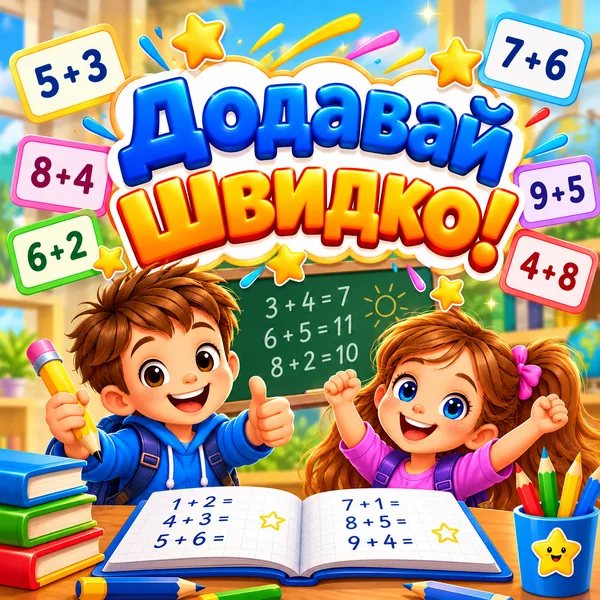
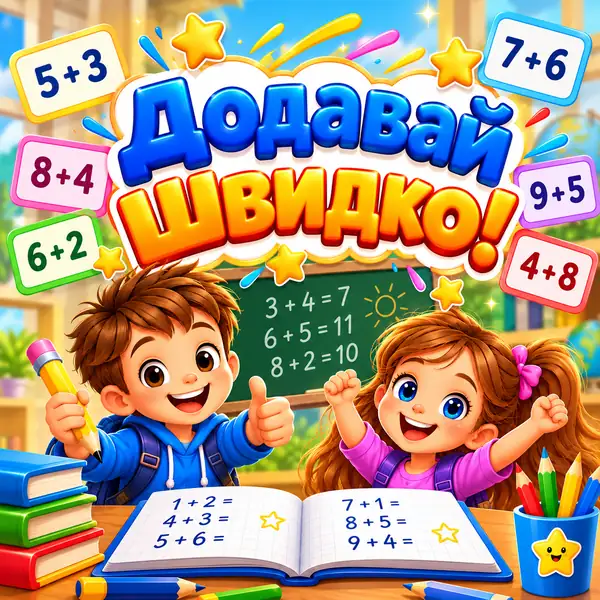
Обкладинки легші на ~28%; додавання й множення показують прогрес на картці
- Три обкладинки перезібрано у webp q62 (600×600): 67–75 КБ замість 93–103 КБ,
  кеш підвищено (v=4 / v=2).
- dodavannya.html, mnozhennya.html пишуть sk_testprog_<id> = [пройдено рівнів, 10]
  (id з ?skdone=t:<id>) — картка в «Навчанні» показує «▶ 3 / 10» і смужку.
  Прогрес, набраний раніше без картки, підхоплюється при відкритті з картки.
  Усі 10 рівнів — skFinishRecord(): запис зараховано, «✅ пройдено».
- dodavannya.html: «чемпіон таблиці множення» → «чемпіон додавання»,
  підпис супер-результату 45 → 30 (як у SUPER).

Claude-Session: https://claude.ai/code/session_015t33xdTwdyarF5UjVJRUZF

diff --git a/klas-1/dodavannya.html b/klas-1/dodavannya.html
@@ -170,7 +170,7 @@ h1{font-family:"Caveat",cursive;font-weight:700;font-size:34px;line-height:1.05;
   <div id="screen-map">
     <div class="eyebrow">Математика · 10 рівнів · <span id="sync" class="sync">…</span></div>
     <h1>Швидке додавання</h1>
-    <img class="cover" src="../img/tr/dodavannya.webp?v=1" alt="" onerror="this.remove()">
+    <img class="cover" src="../img/tr/dodavannya.webp?v=2" alt="" onerror="this.remove()">
     <div class="hud">
       <div class="stat"><span class="k">XP</span><b id="hud-xp">0</b></div>
       <div class="stat"><span class="k">Рекорд/хв</span><b id="hud-rec">—</b></div>
@@ -178,7 +178,7 @@ h1{font-family:"Caveat",cursive;font-weight:700;font-size:34px;line-height:1.05;
     </div>
     <div class="map" id="map"></div>
     <div class="rule"></div>
-    <div class="eyebrow">Супер-результат — 45 правильних за хвилину</div>
+    <div class="eyebrow">Супер-результат — 30 правильних за хвилину</div>
     <a class="backlink" href="../igry.html">← До ігор</a>
   </div>
 
@@ -476,7 +476,7 @@ function endRound(){
   $("d-super").innerHTML   = correct >= SUPER ? `<span class="super">🏆 СУПЕР · 30+ за хвилину</span>` : "";
 
   let line;
-  if(correct >= SUPER)      line = "Неймовірно! Ти справжній чемпіон таблиці множення.";
+  if(correct >= SUPER)      line = "Неймовірно! Ти справжній чемпіон додавання.";
   else if(correct >= 20)    line = "Чудово! До супер-результату лишилось зовсім трохи.";
   else if(correct >= PASS)  line = "Рівень пройдено! Спробуй побити свій рекорд.";
   else                      line = `Треба ${PASS}, щоб відчинити наступний рівень. Ще один спринт!`;
@@ -511,11 +511,25 @@ function readLS(){
 }
 function saveProgress(){
   try{ localStorage.setItem(LS_KEY, JSON.stringify({unlocked:S.unlocked, done:S.done, best:S.best, xp:S.xp})); }catch(e){}
+  reportProg();
   if(window.SK && SK.pushLocal){
     SK.pushLocal().then(ok=>setSync(ok?"збережено":"локально",ok?"ok":"no")).catch(()=>setSync("локально","no"));
   }
 }
 window.addEventListener("pagehide", saveProgress);
+
+/* Прогрес для картки в «Навчанні» (tests.html): sk_testprog_<id> = [пройдено рівнів, 10].
+   id запису — з ?skdone=t:<id>, з яким картка відкриває гру. Усі 10 рівнів —
+   запис зараховано (skFinishRecord із sk-finish.js). Без ?skdone — нічого. */
+function reportProg(){
+  let id = null;
+  try{ const raw = new URLSearchParams(location.search).get("skdone") || "";
+    const ci = raw.indexOf(":"); id = ci > 0 ? raw.slice(ci+1) : raw; }catch(e){}
+  if(!id) return;
+  const n = S.done.filter(Boolean).length;
+  try{ localStorage.setItem("sk_testprog_"+id, JSON.stringify([n, 10])); }catch(e){}
+  if(n >= 10){ try{ if(window.skFinishRecord) skFinishRecord(); }catch(e){} }
+}
 
 function waitSK(cb){
   let n = 0;
@@ -526,14 +540,14 @@ function waitSK(cb){
   })();
 }
 function boot(){
-  readLS(); drawMap(); setSync("з'єднання…");
+  readLS(); drawMap(); reportProg(); setSync("з'єднання…");
   waitSK(ok => {
     if(!ok){ setSync("локально — без хмари","no"); return; }
     SK.ready.then(async () => {
       try{
         if(!SK.isHeroSession || !SK.isHeroSession()){ setSync("увійди як Герой","no"); return; }
         await SK.pullLocal();               // хмара → localStorage
-        readLS(); drawMap();
+        readLS(); drawMap(); reportProg();
         const hero = await SK.getActiveChild();
         setSync(hero && hero.name ? hero.name : "прогрес у хмарі", "ok");
       }catch(e){ setSync("локально","no"); }

diff --git a/klas-2/mnozhennya.html b/klas-2/mnozhennya.html
@@ -170,7 +170,7 @@ h1{font-family:"Caveat",cursive;font-weight:700;font-size:34px;line-height:1.05;
   <div id="screen-map">
     <div class="eyebrow">Математика · 10 рівнів · <span id="sync" class="sync">…</span></div>
     <h1>Таблиця множення</h1>
-    <img class="cover" src="../img/tr/mnozhennya.webp?v=1" alt="" onerror="this.remove()">
+    <img class="cover" src="../img/tr/mnozhennya.webp?v=2" alt="" onerror="this.remove()">
     <div class="hud">
       <div class="stat"><span class="k">XP</span><b id="hud-xp">0</b></div>
       <div class="stat"><span class="k">Рекорд/хв</span><b id="hud-rec">—</b></div>
@@ -490,11 +490,25 @@ function readLS(){
 }
 function saveProgress(){
   try{ localStorage.setItem(LS_KEY, JSON.stringify({unlocked:S.unlocked, done:S.done, best:S.best, xp:S.xp})); }catch(e){}
+  reportProg();
   if(window.SK && SK.pushLocal){
     SK.pushLocal().then(ok=>setSync(ok?"збережено":"локально",ok?"ok":"no")).catch(()=>setSync("локально","no"));
   }
 }
 window.addEventListener("pagehide", saveProgress);
+
+/* Прогрес для картки в «Навчанні» (tests.html): sk_testprog_<id> = [пройдено рівнів, 10].
+   id запису — з ?skdone=t:<id>, з яким картка відкриває гру. Усі 10 рівнів —
+   запис зараховано (skFinishRecord із sk-finish.js). Без ?skdone — нічого. */
+function reportProg(){
+  let id = null;
+  try{ const raw = new URLSearchParams(location.search).get("skdone") || "";
+    const ci = raw.indexOf(":"); id = ci > 0 ? raw.slice(ci+1) : raw; }catch(e){}
+  if(!id) return;
+  const n = S.done.filter(Boolean).length;
+  try{ localStorage.setItem("sk_testprog_"+id, JSON.stringify([n, 10])); }catch(e){}
+  if(n >= 10){ try{ if(window.skFinishRecord) skFinishRecord(); }catch(e){} }
+}
 
 function waitSK(cb){
   let n = 0;
@@ -505,14 +519,14 @@ function waitSK(cb){
   })();
 }
 function boot(){
-  readLS(); drawMap(); setSync("з'єднання…");
+  readLS(); drawMap(); reportProg(); setSync("з'єднання…");
   waitSK(ok => {
     if(!ok){ setSync("локально — без хмари","no"); return; }
     SK.ready.then(async () => {
       try{
         if(!SK.isHeroSession || !SK.isHeroSession()){ setSync("увійди як Герой","no"); return; }
         await SK.pullLocal();               // хмара → localStorage
-        readLS(); drawMap();
+        readLS(); drawMap(); reportProg();
         const hero = await SK.getActiveChild();
         setSync(hero && hero.name ? hero.name : "прогрес у хмарі", "ok");
       }catch(e){ setSync("локально","no"); }

diff --git a/klas-2/slovnykovi-slova-2.html b/klas-2/slovnykovi-slova-2.html
@@ -389,7 +389,7 @@ document.title='Словникові слова — '+GRADE+' клас';
 // обкладинка — за назвою сторінки, як і картка в «Тренажерах» (tests.html):
 // img/tr/slovnykovi-slova.webp для 1 класу, img/tr/slovnykovi-slova-N.webp для решти
 document.getElementById('startHeroImg').src='../img/tr/'
-  +((location.pathname.split('/').pop()||'slovnykovi-slova.html').replace(/\.html?$/i,''))+'.webp?v=3';
+  +((location.pathname.split('/').pop()||'slovnykovi-slova.html').replace(/\.html?$/i,''))+'.webp?v=4';
 
 const THEMES=(window.SK_SLOVNYKOVI&&SK_SLOVNYKOVI[GRADE])||[];
 const ALL_WORDS=THEMES.reduce((a,t)=>a.concat(t.words),[]);
